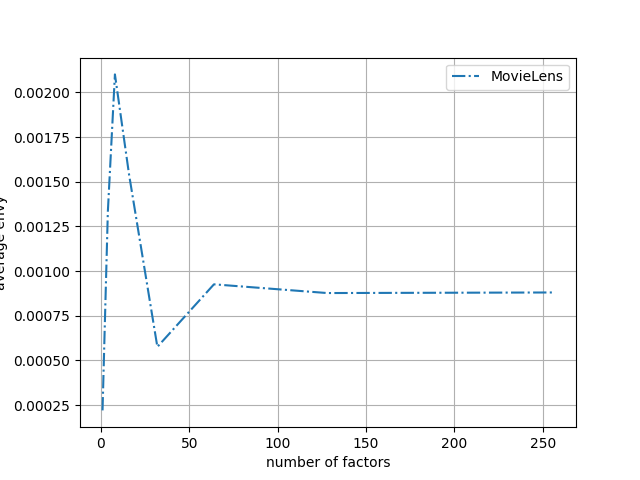
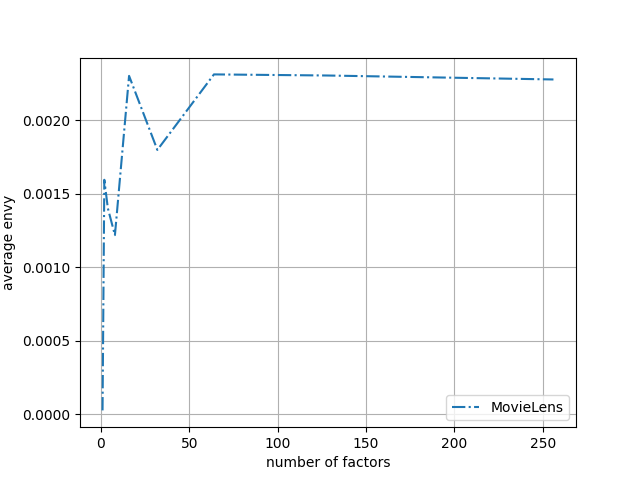
Also possible to run voor 25M MovieLens data set also containing half start ratings

diff --git a/vN/src/lib/envy.py b/vN/src/lib/envy.py
@@ -7,13 +7,13 @@ import numpy as np
 import random
 from tqdm import tqdm
 
-def utility(m, n, probability_policies, expec_rewards):
-    return np.sum(probability_policies[n] * expec_rewards[m])
+# def utility(m, n, probability_policies, expec_rewards):
+#     return np.sum(probability_policies[n] * expec_rewards[m])
 
 # Basic definition of envy-freeness in a system (see 3.1 paper)
 def envy_free_basic(recommendations, policies, expec_rewards, epsilon=0.05, gamma=0.5, lamb=0.5, relax_criterion=False):
     """
-    Audits whether a system is envy-free according to the basic definition.
+    Checks whether a system is envy-free according to the basic definition.
 
     :recommendations:       recommender system's recommendation
     :policies:              probability distribution over the items of getting picked/recommended -> policies
@@ -34,7 +34,9 @@ def envy_free_basic(recommendations, policies, expec_rewards, epsilon=0.05, gamm
     # # Threshold of users that should not be envious
     # envy_free_users_threshold = users * (1 - lamb)
 
-    # Get utilities making use of the property utility = policy * expectation rewards
+    # This whole section belows makes use of the properties of lineair algebra to compute sources of envy
+
+    # According to definition utility = policy * expectation rewards
     utilities = policies @ expec_rewards.T
 
     # Column index = index of user policy, row index = index of user to which the policy was applied
@@ -42,7 +44,6 @@ def envy_free_basic(recommendations, policies, expec_rewards, epsilon=0.05, gamm
     
     # Get maximum envy experienced by users (i.e. for each user)
     max_delta_utilities = delta_utilities.max(axis=0, keepdims=True)
-
     delta_envy = np.maximum(max_delta_utilities, np.zeros(users))
 
     # Envy for each user
@@ -51,12 +52,12 @@ def envy_free_basic(recommendations, policies, expec_rewards, epsilon=0.05, gamm
     average_envy_per_user = np.mean(envy_users)
     proportion_envious_users = np.mean(envy_users > epsilon)
 
-    # <envy_free> temporarily none
+    # <envy_free> temporarily None
     return {"envy_free": None, "avg_envy_user": average_envy_per_user, "prop_envious_users": proportion_envious_users}
 
 def determine_envy_freeness(recommendations, policies, rewards, expec_rewards, mode_envy="basis"):
     """
-    Determines/audits for envy-freeness in a system according to different methods
+    Determines envy-freeness in a system according to different methods
 
     :recommendations:       recommender system's recommendations
     :policies:              probability distribution over the items of getting picked/recommended -> policies

diff --git a/vN/src/user_movie.py b/vN/src/user_movie.py
@@ -31,14 +31,19 @@ from lib import io
 import constant
 
 if __name__ == "__main__":
-    # Source folder of datasets
+    """
+    <DATA_SRC> and <data_map> that are commented out are used when one wants to run it for the 25M MovieLens data set
+    also containing half star ratings 
     DATA_SRC = "../data/ml-1m/"
-    # Mapping from data <variable name> to its <filename>
-    data_map = {"movies": "movies.dat", 
-                "user_movies": "ratings.dat"}
+    """
+    # data_map = {"movies": "movies.dat", 
+    #             "user_movies": "ratings.dat"}
 
-    header = {"movies": ["movieID", "title", "genres"],
-            "user_movies": ["userID", "movieID", "rating", "timestamp"]}
+    # Source folder of datasets
+    DATA_SRC = "../data/ml-25m/"
+    # Mapping from data <variable name> to its <filename>    
+    data_map = {"user_movies": "ratings.csv"}
+    header = {"user_movies": ["userID", "movieID", "rating", "timestamp"]}
 
     # Variable names of datasets to be used
     var_names = list(data_map.keys())
@@ -56,8 +61,12 @@ if __name__ == "__main__":
     
     # Read in data files
     for var_name, file_name in data_map.items():
-        my_globals[var_name] = pd.read_csv(DATA_SRC + file_name, sep="::", header=None, names=header[var_name], encoding="latin-1", engine="python")
-
+        print("Reading in", file_name,"...")
+        my_globals[var_name] = pd.read_csv(DATA_SRC + file_name)
+        my_globals[var_name].columns = header[var_name]
+        # Used for 1M MovieLens data set
+        # my_globals[var_name] = pd.read_csv(DATA_SRC + file_name, sep="::", header=None, names=header[var_name], encoding="latin-1", engine="python")
+    
     # Get the number of ratings per movie (movie rating count)
     user_movies["rating_count"] = np.full(len(user_movies), 1)    
     movies_rating_count = helper.merge_duplicates(user_movies, "movieID", "rating_count")
@@ -128,6 +137,9 @@ if __name__ == "__main__":
         # Get model's hyperparameters to be tuned 
         configurations = helper.generate_hyperparameter_configurations(regularization, confidence_weighting, latent_factors)
 
+        """
+        TO DO: can be parallelized training each data split simultaneously
+        """
         # Cross-validation
         for seed in tqdm(range(num_random_seeds)):
 

diff --git a/vN/src/main.py b/vN/src/main.py
@@ -13,7 +13,7 @@ from lib import plot
 import constant
 
 if __name__ == "__main__":
-    os.environ["OPENBLAS_NUM_THREADS"] = "1"
+    # os.environ["OPENBLAS_NUM_THREADS"] = "1"
     my_globals = globals()
 
     # Data sets to perform experiments on
@@ -78,7 +78,7 @@ if __name__ == "__main__":
         data_set["vars"]["ground_truth"] = ground_truth
 
         ##########################
-        #   RECOMMENDER SYSTEM: from here on we generate 144 preference estimation models one for each hyperparameter combination
+        #   RECOMMENDER SYSTEM: from here on we generate 144 preference estimation models, one for each hyperparameter combination
         ##########################
 
         # Hyperparameter spaces
@@ -113,7 +113,7 @@ if __name__ == "__main__":
         data_set["vars"]["recommendation_system_est_models"] = recommendation_system_est_models
 
         ##########################
-        #   RECOMMENDER SYSTEM: from here on we continue with the best models we select which are either the overall best model
+        #   RECOMMENDER SYSTEM: from here on we continue with the best models we select which are either solely the overall best model
         #                       or the best model per latent_factor. Thus we have a list in the form:
         #                       {<latent_factor>: {<precision>: {"i_params": <index hyperparams config>, "params": <hyperparams config>, "p_val": <validation precision>, "model": <model>}}}}
         ##########################
@@ -188,7 +188,7 @@ if __name__ == "__main__":
             os.mkdir(experiment_dir_path)
         
         # Only perform experiment when not yet executed
-        if True:#len(os.listdir(experiment_dir_path)) == 0:    
+        if len(os.listdir(experiment_dir_path)) == 0:    
             print("Running experiment...", experiment_dir)    
         
             keys = recommendation_policies.keys()

diff --git a/vN/src/lib/recommender.py b/vN/src/lib/recommender.py
@@ -49,6 +49,10 @@ def create_recommendation_est_system(ground_truth, hyperparameter_configurations
 
     print("Generating recommender preference estimation models...")
 
+    
+    """
+    TO DO: can be parallelized training each hyperparameter configuration simultaneously
+    """
     # Train low-rank matrix completion algorithm (Bell and Sejnowski 1995)
     for i in tqdm(range(len(hyperparameter_configurations))):
         params = hyperparameter_configurations[i]
@@ -120,11 +124,15 @@ def create_recommendation_policies(preference_estimates, temperature=5):
     """
     print("Generating recommendation policies...")
 
-    def inverse_temperature(x):
-        return x/temperature
-    
-    apply_temperature = np.vectorize(inverse_temperature)   
-    preference_estimates = apply_temperature(preference_estimates)
+    # def inverse_temperature(x):
+    #     return x/temperature
+
+    # apply_temperature = np.vectorize(inverse_temperature)   
+    # preference_estimates = apply_temperature(preference_estimates)
+
+    # Apply temperature parameter   
+    divider = np.full(preference_estimates.shape[0], temperature)
+    preference_estimates = np.divide(preference_estimates.T, divider).T
     
     # Compute the softmax transformation along the second axis (i.e., the rows)
     policies = scipy.special.softmax(preference_estimates, axis=1)

diff --git a/vN/src/user_artist.py b/vN/src/user_artist.py
@@ -34,8 +34,7 @@ if __name__ == "__main__":
     # Source folder of datasets
     DATA_SRC = "../data/hetrec2011-lastfm-2k/"
     # Mapping from data <variable name> to its <filename>
-    data_map = {"artists": "artists.dat", 
-                "user_artists": "user_artists.dat"}
+    data_map = {"user_artists": "user_artists.dat"}
 
     # Variable names of datasets to be used
     var_names = list(data_map.keys())
@@ -124,6 +123,9 @@ if __name__ == "__main__":
             p_base = 0
             model_best = None
 
+            """
+            TO DO: can be parallelized training each hyperparameter configuration simultaneously
+            """
             # Hyperparameter tuning through grid search
             for i, hyperparameters in configurations.items():
                 # Initialize model
